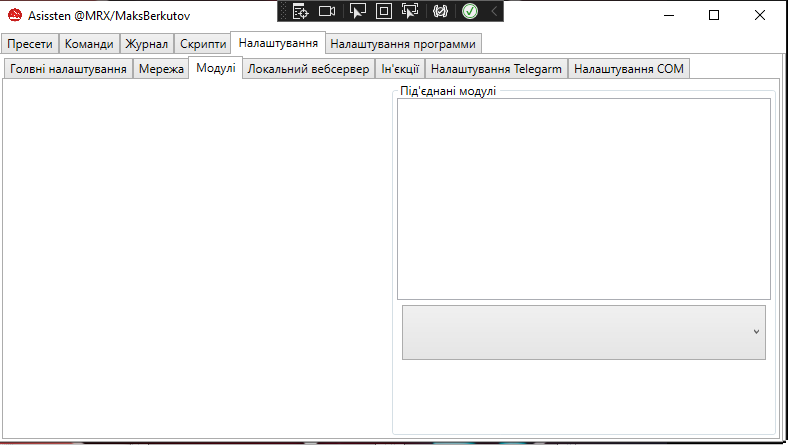
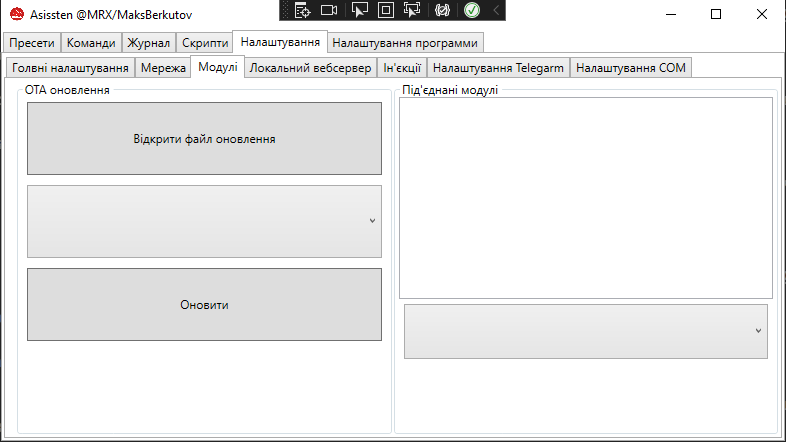
Add OTA in Lang and Documentation

Changed region(s): [[0.0, 0.0, 1.0, 1.0], [0.9454, 0.0, 1.0, 0.0588], [0.8844, 0.0, 0.9149, 0.0588]]

diff --git a/MyAsistent/MainWindow.xaml b/MyAsistent/MainWindow.xaml
@@ -157,7 +157,7 @@
 
                             </Grid.ColumnDefinitions>
 
-                            <GroupBox Header="OTA" Grid.Row="0" Grid.Column="1" Grid.RowSpan="4">
+                            <GroupBox Header="{DynamicResource OtaUp}" Grid.Row="0" Grid.Column="1" Grid.RowSpan="4">
                                 <Grid>
                                     <Grid.RowDefinitions>
                                         <RowDefinition/>
@@ -166,10 +166,10 @@
                                         <RowDefinition/>
                                         
                                     </Grid.RowDefinitions>
-                                    
-                                    <Button Click="OpenFierware_Click" Content="Open Fierware" Margin="5 5 5 5"/>
+
+                                    <Button Click="OpenFierware_Click" Content="{DynamicResource OpenFierware}" Margin="5 5 5 5"/>
                                     <ComboBox Name="ArduinoFierware" ItemsSource="{Binding ElementName=ArduinoSocketUsersComboBox, Path=ItemsSource}" Grid.Row="1" Margin="5 5 5 5"/>
-                                    <Button Click="StartUpdateFierware_Click" Content="Update" Grid.Row="2" Margin="5 5 5 5"/>
+                                    <Button Click="StartUpdateFierware_Click" Content="{DynamicResource Update}" Grid.Row="2" Margin="5 5 5 5"/>
                                     <TextBlock Name="FierwareStatus" HorizontalAlignment="Center" VerticalAlignment="Center" Foreground="Red" FontSize="25"  Grid.Row="3" Margin="5 5 5 5"/>
                                 </Grid>
                             </GroupBox>

diff --git a/MyAsistent/Lang/Resources.ua.xaml b/MyAsistent/Lang/Resources.ua.xaml
@@ -100,9 +100,13 @@
     <sys:String x:Key="VoiceMsg">Озвучувати повідомлення</sys:String>
     <sys:String x:Key="TimeAutoSave">Час автозбереження</sys:String>
     <sys:String x:Key="TimeWaitInitModul">Час очікування підключення модулів</sys:String>
-    
-    
-    
+
+    <!-- OTA -->
+
+    <sys:String x:Key="OpenFierware">Відкрити файл оновлення</sys:String>
+    <sys:String x:Key="OtaUp">OTA оновлення</sys:String>
+    <sys:String x:Key="Update">Оновити</sys:String>
+
 
 
 

diff --git a/MyAsistent/Lang/Resources.en.xaml b/MyAsistent/Lang/Resources.en.xaml
@@ -98,4 +98,9 @@
     <sys:String x:Key="VoiceMsg">Voice message</sys:String>
     <sys:String x:Key="TimeAutoSave">Autosave time</sys:String>
     <sys:String x:Key="TimeWaitInitModul">Waiting time for connecting modules</sys:String>
+    <!--OTA -->
+
+    <sys:String x:Key="OpenFierware">Open Update File</sys:String>
+    <sys:String x:Key="OtaUp">OTA Upgrade</sys:String>
+    <sys:String x:Key="Update">Update</sys:String>
 </ResourceDictionary>

diff --git a/Document/FullGuide.md b/Document/FullGuide.md
@@ -5,7 +5,7 @@
 
 
 ## _Команди_  (**Command**)
----
+
 
 Як і було вказано в кроткому гайду ця сторінка використовується для  додання команд трігерів та задання певної логіки для них.
 
@@ -17,8 +17,10 @@
 
 ![синтаксис виводу команд:](https://github.com/MaksBerkutov/MyAsistentNew/blob/master/ImageGit/CodeProjectOutputInfo.png)
 
-### Додавання команд
 ---
+
+### Додавання команд
+
 
 ![Загальний вигляд вікна:](https://github.com/MaksBerkutov/MyAsistentNew/blob/master/ImageGit/CreateCommandBox.png)
 
@@ -77,16 +79,19 @@
 
      - Якщо в тексті буде `@` то це отримати поточний час. 
 
-## _Журнал_ (**Logs**)
 ---
+
+## _Журнал_ (**Logs**)
+
 Журнал введеться для збереження та фіксування основних помилок попереджень та меседжів. Являє собою щось на кшталт консолі або термінала. Має функціонал для написання команд, але базові команди як були так і залишилися швидше за все з оновленням буде і підтримка більшої кількості команд.
 
 ![Вигляд вікна](https://github.com/MaksBerkutov/MyAsistentNew/blob/master/ImageGit/Logs.png)
 
 Перший блок це дата та час, далі меседж після цього статус.
 
-## _Скрипти_ (**Script**)
 ---
+
+## _Скрипти_ (**Script**)
 
 Дуже складний механізм, принципом якого є інтегрувати сторонній код в програму під час її виконання. У редакторі є блок Файл який має пункти :
 -	`Новий проект` створення проекту.
@@ -101,8 +106,9 @@
 
 ![Вигляд вікна](https://github.com/MaksBerkutov/MyAsistentNew/blob/master/ImageGit/CreateScript.png)
 
-## _Налаштування_ (**Settings**)
 ---
+
+## _Налаштування_ (**Settings**)
 
 ### _Головні налаштування_ (**Main Settings**)
 
@@ -114,6 +120,8 @@
 - Під полями 6 та 7 вказується час через який сервер буде автоматично зберігати основні налаштування та скільки сервер буде чекати відповіді від модуля (чим слабший зв'язок, тим більше треба чекати). 
 
 ![Вигляд вікна](https://github.com/MaksBerkutov/MyAsistentNew/blob/master/ImageGit/Settings_Main.png)
+
+---
 
 ### _Мережа_ (**Network**)
 
@@ -134,11 +142,37 @@
 
 На жаль станом на 12.6.2023 _не_ _працює_ , але в майбутньому дозволить створювати точку доступу до якої будуть під'єднуватися модулі. Для цього треба буде ввести назву мережі (SSID) та пароль (PASWORLD).
 
+---
+
 ### _Налаштування модулів_ (**Arduino**)
 
-Все, що дозволяє це переглянути всі підключенні плати, так і їх команди (команди з припискою  `“_REC” ` кажуть про те, що команда повертає якісь дані).
+Дозволяє переглянути всі підключенні плати, так і їх команди (команди з припискою  `“_REC” ` кажуть про те, що команда повертає якісь дані). А ще дає змогу оновити якщо ця функція вмикненна.
+
+
 
 ![Вигляд вікна](https://github.com/MaksBerkutov/MyAsistentNew/blob/master/ImageGit/Settings_Arduino.png)
+
+### Інструкція до ***OTA*** оновлень модулів
+
+#### Початок
+
+З самого початку я вам рекомендую визначитися ***"А чи це потрібно мені?"***. В ціей функції є одини великий плюс це 
+бездротове оновлення, але як на мене це не так часто потрібно.
+
+Якщо ви визначиличя що воно вам потрібно тоді в самому початку скетча вам потрібно написати таку строчку коду `#define OTA`. 
+Ця строчка вказує на те що наш модуль буде підримувати функцію OTA оновлень. 
+
+
+#### Як оновити?
+
+Для початку вам потрібно написсати та прошити скетч з підримкою OTA оновленнь. Наступним кроком будє компілювання нового скетчу в формат `.bin` файл повинен буде та томуж пристрої що і сервер.
+Після всих цих кроків на сервері виконуємо таку послідовність дій.
+1. Натиснути на кнопку `Відкрити файл оновлення`.
+2. В випадаючому списку вибрати потрібний модуль.
+3. Натиснути на кнопку `Оновити`
+4. Чекати доки не відєднаяеться плата від сервера 
+---
+
 
 ### _Налаштування локального вебсерверу_ (**Local Web Server**)
 - Блок `“Log Web Server”` з назви вже зрозуміло, що тут буде вестись журнал вебсерверу .
@@ -151,6 +185,7 @@
 ![Вигляд сайту](https://github.com/MaksBerkutov/MyAsistentNew/blob/master/ImageGit/Settings_LWS_Site.png)
 ![Bигляд сторінки сайту](https://github.com/MaksBerkutov/MyAsistentNew/blob/master/ImageGit/Settings_LWS_Site1.png)
 
+---
 ### _Ін'єкції_ коду (**Inject**)
 Ін’єкції коду дозволяють писати складні прикладні програми до серверу. Має базовий захист від злому, а також дозволяє розширити функціонал асистента до нескінченості.
 
@@ -239,8 +274,11 @@ namespace ConsoleApp7
 
 
 ```
-### _Налаштування Telegram_ (**Telegram Settings**)
+
 ---
+
+### _Налаштування Telegram_ (**Telegram Settings**)
+
 
 Телеграм бот використовується для налаштувань, отримання останніх записів в журналі, а також для емуляції команд тригерів. 
 Все що потрібно, для його налаштування, це токен який можливо отримати у телеграм боті [Bot Father]([xxx](https://t.me/BotFather)), а потім вписати його у текстове поле `Api Key`.
@@ -267,9 +305,13 @@ namespace ConsoleApp7
 
 ![Базова інформація боту](https://github.com/MaksBerkutov/MyAsistentNew/blob/master/ImageGit/Settings_TBot4.png)
 
-## _Налаштування програми_  (**Settings App**)
 ---
+
+## _Налаштування програми_  (**Settings App**)
+
 
 Відповідають за налштування мови серіеру.
 
 ![Вигляд вікна](https://github.com/MaksBerkutov/MyAsistentNew/blob/master/ImageGit/SettingsApp.png)
+
+---

diff --git a/Document/ModuleSketchGuide.md b/Document/ModuleSketchGuide.md
@@ -49,6 +49,10 @@ void loop() {
   assistent.Reader();
 }
 ```
+## Як ввімкнути функцію OTA
+
+Все дуже просто, вам потрібно на початку скетча прописати такий рядок коду `#define OTA`.
+
 ## Приклади обробників команд, які не повертають значення
 
 ```cpp
